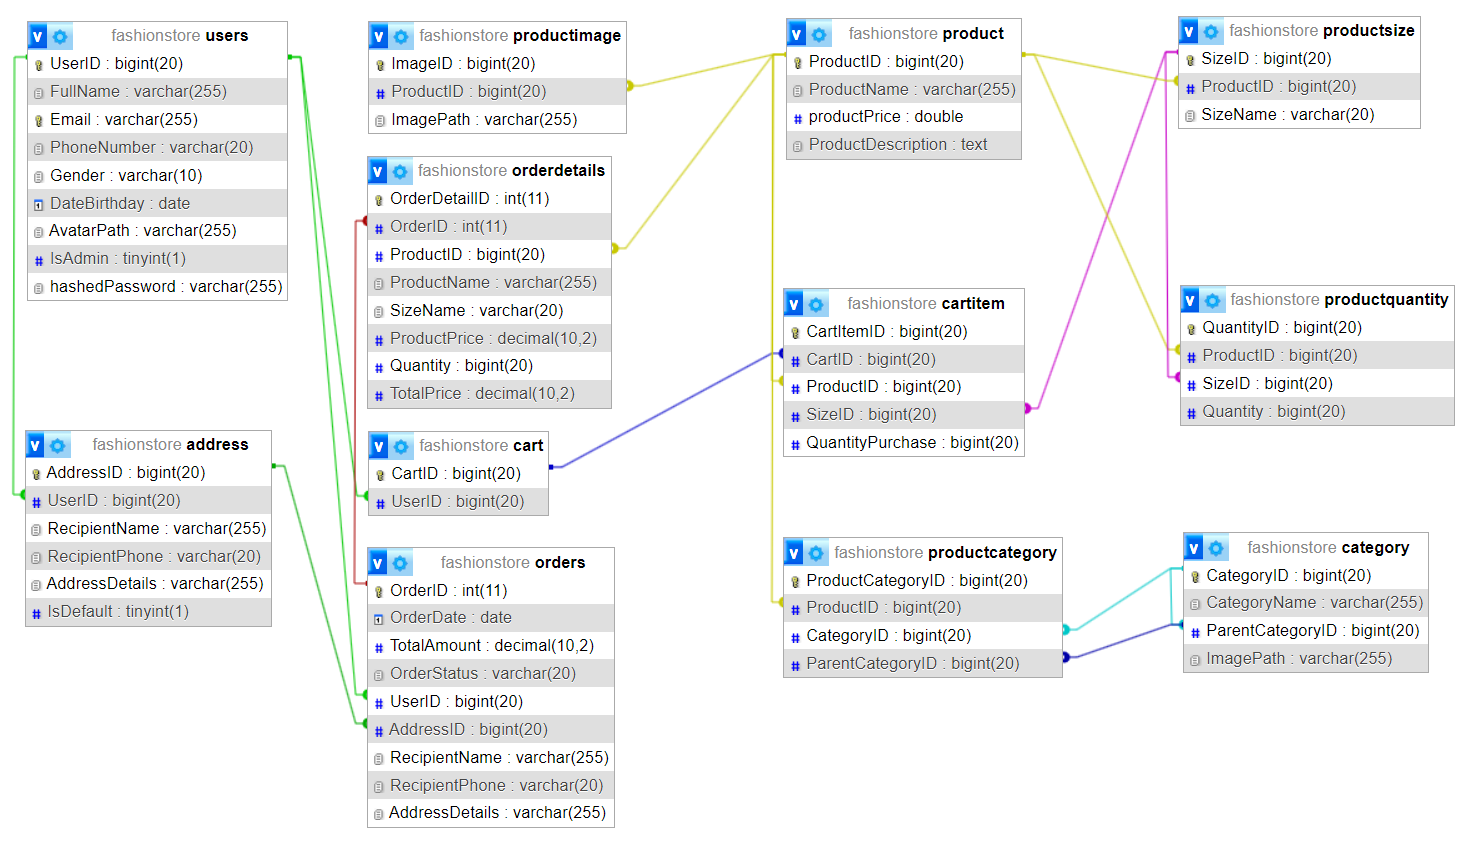
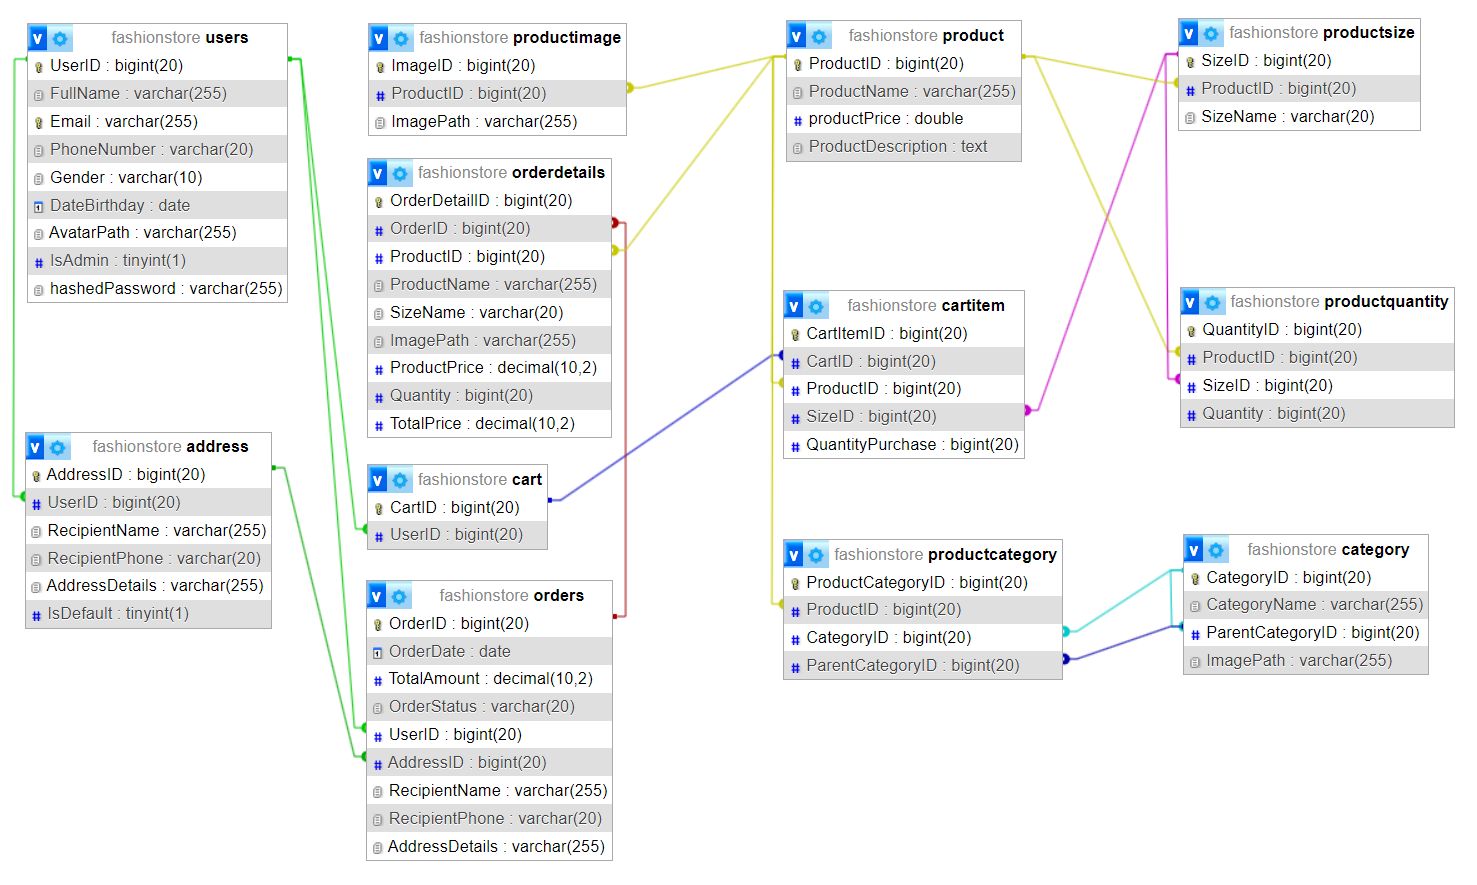
Update OrderDetails

diff --git a/backend/src/main/java/com/FashionStore/models/OrderDetails.java b/backend/src/main/java/com/FashionStore/models/OrderDetails.java
@@ -24,6 +24,9 @@ public class OrderDetails {
     @Column(name = "ProductName", nullable = false)
     private String productName;
 
+    @Column(name = "ImagePath")
+    private String imagePath;
+
     @Column(name = "SizeName", nullable = false)
     private String sizeName;
 
@@ -78,6 +81,14 @@ public class OrderDetails {
 
     public void setSizeName(String sizeName) {
         this.sizeName = sizeName;
+    }
+
+    public String getImagePath() {
+        return imagePath;
+    }
+
+    public void setImagePath(String imagePath) {
+        this.imagePath = imagePath;
     }
 
     public BigDecimal getProductPrice() {
